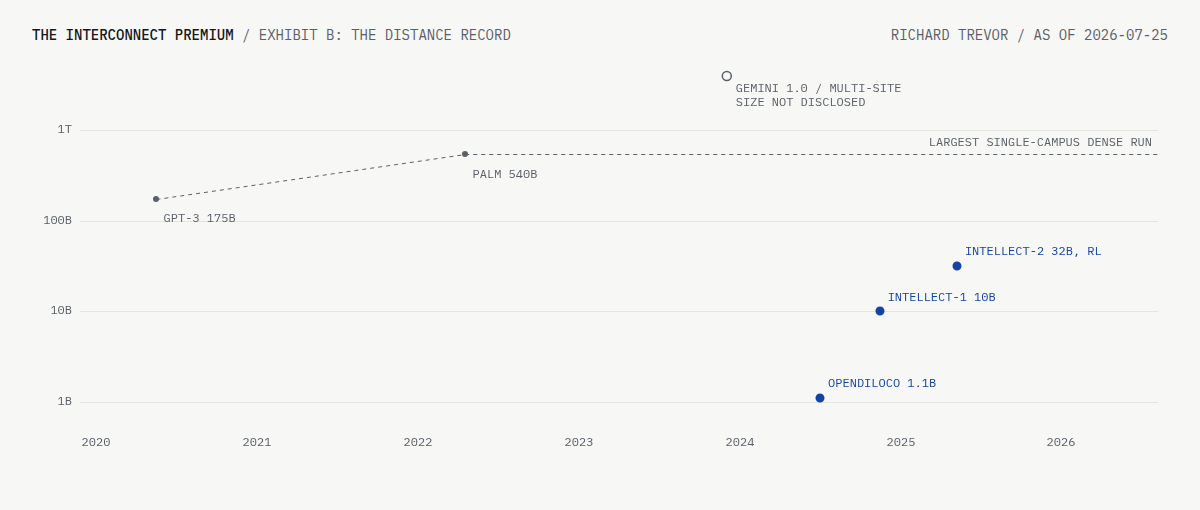
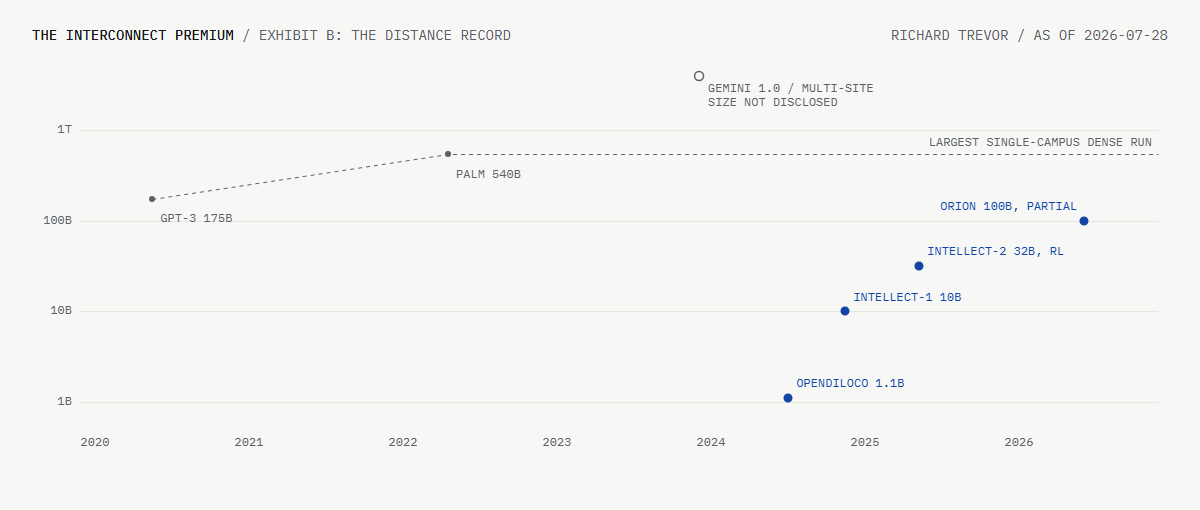
Orion-100B on the record; tail argument: sample cost is regime-dependent

diff --git a/index.html b/index.html
@@ -4,7 +4,7 @@
 <meta charset="utf-8">
 <meta name="viewport" content="width=device-width, initial-scale=1">
 <title>The Interconnect Premium | Richard Trevor</title>
-<meta name="description" content="What AI hardware pricing assumes about where training lives: the all-reduce arithmetic, the method spectrum, the multi-site record and pre-registered kill criteria. As of 2026-07-25.">
+<meta name="description" content="What AI hardware pricing assumes about where training lives: the all-reduce arithmetic, the method spectrum, the multi-site record and pre-registered kill criteria. As of 2026-07-28.">
 <meta property="og:title" content="The Interconnect Premium">
 <meta property="og:description" content="Under an unsharded data-parallel assumption, synchronous gradient training exits a 400 Gb/s port at 62.5B parameters. The full argument, caveats and pre-registered kill criteria.">
 <meta property="og:type" content="article">
@@ -28,7 +28,7 @@
 <div class="strip">
   <div class="container">
     <span><span class="k">BANDWIDTH WALL</span> <span class="headline-v" id="strip-headline">62.5B</span></span>
-    <span id="strip-date"><span class="k">DATA THROUGH</span> <span class="v">2026-07-25</span></span>
+    <span id="strip-date"><span class="k">DATA THROUGH</span> <span class="v">2026-07-28</span></span>
     <span class="who hide-m"><span class="v">RICHARD TREVOR</span> <span class="k">/</span> <a href="mailto:richardgt2001@gmail.com">richardgt2001@gmail.com</a></span>
   </div>
 </div>
@@ -40,7 +40,7 @@
       <div>WRITE-UP</div>
       <div class="name">RICHARD TREVOR</div>
       <div><a href="mailto:richardgt2001@gmail.com">richardgt2001@gmail.com</a></div>
-      <div>2026-07-25</div>
+      <div>2026-07-28</div>
     </div>
   </div>
   <nav class="site">
@@ -58,7 +58,8 @@
     inside one building, and that assumption is a number, 0.8 bytes per second per parameter in the
     unsharded data-parallel case, past a 400 Gb/s port at 62.5B parameters at a 5 second step. Methods
     that need less bandwidth exist at published exchange rates, and the multi-site record over ordinary
-    links moved from 1.1B to 32B parameters in under a year against a single-campus frontier of 540B.
+    links moved from 1.1B to 32B parameters in under a year, with a partial 100B demonstration in 2026,
+    against a single-campus frontier of 540B.
     Base case: the premium holds. The scenario worth watching is low-communication training reaching
     frontier scale; the tail, the part I know from my own dissertation, is evolutionary methods closing
     their sample gap. Three pre-registered criteria state what would change the base case, a daily
@@ -101,7 +102,7 @@
     </div>
     <div class="source-line">Same constants as the Monitor's Exhibit A. Evolutionary line: constructed
     scenario of 1,024 workers x 8 bytes every 5 seconds. Assumptions in methodology.csv. Data through
-    2026-07-25.</div>
+    2026-07-28.</div>
   </section>
 
   <section class="note-section">
@@ -124,7 +125,13 @@
     data of a gradient baseline, measured on reinforcement-learning tasks rather than language
     pretraining.<sup class="sn-ref">5</sup>
     <span class="sidenote">5. Salimans et al., 2017, source 6: evolution strategies scaled to over a
-    thousand workers with bytes-per-generation communication.</span></p>
+    thousand workers with bytes-per-generation communication. Qiu et al., 2025, source 22; MeZO,
+    source 23.</span>
+    That price is regime-dependent and it is moving: the first full-parameter evolution-strategies
+    fine-tuning of billion-parameter language models, published September 2025, needed under 20 percent
+    of the samples of the reinforcement-learning methods it was compared against, with fewer reward
+    hacks and steadier runs, and forward-pass-only fine-tuning has separately reached 66B parameters on
+    inference-class memory.</p>
     <p>My dissertation used these methods, so the sample penalty is something I have measured rather
     than read about. The work ran on a single machine, nothing distributed about it, and against a tuned
     gradient baseline the penalty came out at 4 to 8 times, inside the published range. What makes the
@@ -134,7 +141,8 @@
     research budgets reach, but I suspect part of the gap is research attention rather than method.
     Gradient training has had a decade of optimiser and infrastructure engineering behind it,
     evolutionary methods have not, and nobody has funded the equivalent effort to find where the floor
-    actually is. That is a suspicion, not a result.</p>
+    actually is. The September 2025 result above is the first funded attempt, and it moved the number
+    the way I expected. One result, one regime, so still a suspicion rather than a conclusion.</p>
     <p>The three families sit on one curve, and the gradient world has spent two years descending it,
     cutting its bandwidth requirement by two and a half orders of magnitude for a few points of
     efficiency. The premium prices the assumption that the descent stops here; the distance record below
@@ -168,16 +176,23 @@
     need only about 128 Mb/s per worker, and INTELLECT-2 ran 32B in 2025, though as
     reinforcement-learning post-training, which exchanges far less than pretraining.<sup class="sn-ref">7</sup>
     <span class="sidenote">7. Sources 3, 4, 5. RL post-training moves weights and rollouts occasionally,
-    not gradients every step; the 32B point is a weaker claim than the 10B one.</span></p>
+    not gradients every step; the 32B point is a weaker claim than the 10B one.</span>
+    In June 2026 an incentivised network of permissionless workers took a 100B dense model onto links
+    with a median upload of 856 Mbps, one previous-generation GPU per peer across five sites, at roughly
+    65 percent of datacentre speed, and stopped after 1.1B tokens for cost.<sup class="sn-ref">8</sup>
+    <span class="sidenote">8. Sources 20 and 21: 16 pipeline stages x 3 replicas, 48 A100s, 30.8 percent
+    average model FLOP utilisation. Engineering feasibility at 100B, not a completed pretraining.</span>
+    That touches criterion 2's scale threshold without meeting it, the run was not completed and the
+    compute penalty sits near 1.5x against the pre-registered 1.3x.</p>
     <p>Frontier laboratories also train across datacentres: Gemini was trained across multiple sites on
     private fibre. Owned, provisioned, exclusive links extend the radius of one building without changing
     its cost of entry, so they carry no evidence about commodity links. The exhibit separates the two
     records by marker for that reason.</p>
     <p>The gap is the number to track. In mid 2024 the commodity-link record stood roughly 500 times below
     the largest documented single-campus dense run, PaLM at 540B. By 2025 the gap was about 17 times.
-    Two data points set a direction; criterion 2 states the crossing that would settle it. Each crossing
-    on the way converts standalone fleets from stranded capacity into competing supply, and useful-life
-    assumptions register it first.</p>
+    Completed runs set the direction; criterion 2 states the crossing that would settle it. Each
+    crossing on the way converts standalone fleets from stranded capacity into competing supply, and
+    useful-life assumptions register it first.</p>
   </section>
 
   <section class="note-section">
@@ -186,17 +201,18 @@
     requirement is met, which the filings already show: NVIDIA reported 142 percent growth in Data
     Center networking revenue in fiscal 2026 driven by NVLink fabric, Ethernet and InfiniBand, Broadcom
     attributes its AI semiconductor demand to custom accelerators and Ethernet switching, and Micron
-    reported higher HBM demand from AI data centres.<sup class="sn-ref">8</sup>
-    <span class="sidenote">8. Sources 15 to 17. These disclosures establish demand for the components;
+    reported higher HBM demand from AI data centres.<sup class="sn-ref">9</sup>
+    <span class="sidenote">9. Sources 15 to 17. These disclosures establish demand for the components;
     they do not measure a standalone interconnect premium.</span>
     The costs of the alternatives are real, and capacity behind weaker links cannot hold the 5 second
     step, which is the constraint the premium prices.</p>
     <p>The live scenario is low-communication training reaching frontier scale, because that trajectory
     is funded and public: 500 local steps demonstrated in 2023, 10B across three continents in 2024, 32B
-    in 2025. If it continues to criterion 2 the first effects are accounting effects, because standalone
-    and prior-generation fleets re-enter the training pool and earn longer, which moves useful-life and
-    depreciation assumptions inside hyperscaler accounts before it moves any headline,<sup class="sn-ref">9</sup>
-    <span class="sidenote">9. Useful-life estimates have moved both ways. Microsoft extended server and
+    in 2025, a partial 100B in 2026. If it continues to criterion 2 the first effects are accounting
+    effects, because standalone and prior-generation fleets re-enter the training pool and earn longer,
+    which moves useful-life and depreciation assumptions inside hyperscaler accounts before it moves any
+    headline,<sup class="sn-ref">10</sup>
+    <span class="sidenote">10. Useful-life estimates have moved both ways. Microsoft extended server and
     network equipment from four to six years in 2022. Amazon extended servers from five to six years in
     2024, then shortened a subset to five years and accelerated retirements effective in 2025, citing the
     pace of AI and machine-learning development. Sources 18 and 19.</span>
@@ -205,11 +221,20 @@
     quarters, accounting follows within a reporting cycle or two, the rental spread moves last because
     marketplaces price bundles. The filings and the published runs are known, the sequencing is my
     inference.</p>
-    <p>The tail is evolutionary parity, the scenario I cannot size. If the sample gap closes the
-    dislocation is larger: compute demand rises while co-location demand falls, and accelerators
-    decouple from fabric. Nothing published points to it, my own results say the penalty is real, and it
-    stays a tail unless the attention gap closes. Nothing here recommends buying or selling
-    anything.</p>
+    <p>The tail is evolutionary parity, and the tail is where my weighting differs from consensus.
+    Structurally these methods fit a permissionless network better than anything else on the curve,
+    independent workers exchanging a scalar, free to join and drop, no orchestrator, while the Orion run
+    had to force coupled gradient training into that setting with 128x activation compression and the
+    friction visible in its numbers. What keeps the tail a tail is the sample bill, and the sample bill
+    is regime-dependent: heavy where the learning signal is dense, as in pretraining, thin where the
+    signal is a scalar reward, which is the regime frontier compute is shifting into as post-training
+    and reasoning take a growing share of budgets. The early evidence runs that way, ES fine-tuning
+    beating its RL baselines on samples at billion-parameter scale, forward-pass-only methods reaching
+    66B on inference-class memory, the largest multi-site run before Orion already reinforcement
+    learning. None of that is pretraining and none of it is frontier scale, so I still cannot size the
+    tail. What I can say is the direction: the share of compute suited to these methods is growing, and
+    if that continues the premium's anchor narrows to pretraining alone. Nothing here recommends buying
+    or selling anything.</p>
   </section>
 
   <section class="note-section">
@@ -254,6 +279,10 @@
       <li><span class="n">17</span><span>Micron, fiscal 2025 Form 10-K: AI data-centre demand for HBM, SEC filing 0000723125-25-000028.</span></li>
       <li><span class="n">18</span><span>Microsoft, fiscal 2024 Form 10-K: 2022 extension of server and network equipment useful lives from four to six years, SEC filing 0000950170-24-087843.</span></li>
       <li><span class="n">19</span><span>Amazon, fiscal 2024 Form 10-K: server useful-life changes and accelerated depreciation tied to AI and machine-learning development, SEC filing 0001018724-25-000004.</span></li>
+      <li><span class="n">20</span><span>Macrocosmos, IOTA: Incentivised Orchestrated Training Architecture, technical primer, arXiv 2507.17766, 2025.</span></li>
+      <li><span class="n">21</span><span>Macrocosmos, Orion-100B distributed pretraining report, macrocosmos.ai, June 2026.</span></li>
+      <li><span class="n">22</span><span>Qiu et al., Evolution Strategies at Scale: LLM Fine-Tuning Beyond Reinforcement Learning, arXiv 2509.24372, 2025.</span></li>
+      <li><span class="n">23</span><span>Malladi et al., Fine-Tuning Language Models with Just Forward Passes, arXiv 2305.17333, 2023.</span></li>
     </ol>
   </section>
 

diff --git a/monitor.html b/monitor.html
@@ -28,7 +28,7 @@
 <div class="strip">
   <div class="container">
     <span><span class="k">BANDWIDTH WALL</span> <span class="headline-v" id="strip-headline">62.5B</span></span>
-    <span id="strip-date"><span class="k">DATA THROUGH</span> <span class="v">2026-07-25</span></span>
+    <span id="strip-date"><span class="k">DATA THROUGH</span> <span class="v">2026-07-28</span></span>
     <span class="who hide-m"><span class="v">RICHARD TREVOR</span> <span class="k">/</span> <a href="mailto:richardgt2001@gmail.com">richardgt2001@gmail.com</a></span>
   </div>
 </div>
@@ -39,7 +39,7 @@
     <div class="side">
       <div class="name">RICHARD TREVOR</div>
       <div><a href="mailto:richardgt2001@gmail.com">richardgt2001@gmail.com</a></div>
-      <div>AS OF 2026-07-25</div>
+      <div>AS OF 2026-07-28</div>
     </div>
   </div>
   <nav class="site">
@@ -63,7 +63,7 @@
     <div class="figure" id="headline-figure">62.5B</div>
     <div class="defline">PARAMETERS AT WHICH ONE UNSHARDED DATA-PARALLEL REPLICA EXCEEDS A 400 Gb/s PORT
     AT A 5 S STEP. ILLUSTRATIVE BOUND; SHARDING CHANGES PER-DEVICE TRAFFIC. WINDOW 1B TO 1T. AS OF
-    2026-07-25.</div>
+    2026-07-28.</div>
   </div>
 
   <section class="block">
@@ -78,7 +78,7 @@
     </div>
     <div class="source-line">Source: methodology.csv; arXiv 2311.08105, 1703.03864, 2407.21783.
     Evolutionary line is a constructed scenario: 1,024 workers x 8 bytes every 5 seconds. Data through
-    2026-07-25.</div>
+    2026-07-28.</div>
   </section>
 
   <section class="block">
@@ -122,13 +122,13 @@
     <p class="prose">The largest documented multi-site training runs, against the largest documented
     single-campus dense run.</p>
     <div class="chart-wrap">
-      <div id="exhibit-c" class="screen-chart" role="img" aria-label="Scatter chart: multi-site training runs over commodity links have grown from 1.1 billion parameters in mid 2024 to 32 billion in 2025, against a single-campus dense frontier of 540 billion. Gemini multi-site training is annotated separately because its parameter count was not disclosed."></div>
+      <div id="exhibit-c" class="screen-chart" role="img" aria-label="Scatter chart: multi-site training runs over commodity links have grown from 1.1 billion parameters in mid 2024 to 32 billion in 2025, with a partial 100 billion demonstration in 2026, against a single-campus dense frontier of 540 billion. Gemini multi-site training is annotated separately because its parameter count was not disclosed."></div>
       <img class="print-only" src="assets/exhibit-c.png" alt="The Distance Record chart, static rendering.">
       <div class="chart-tip" id="c-tip"></div>
     </div>
     <div class="source-line">Source: methodology.csv; arXiv 2407.07852, 2412.01152, 2505.07291,
-    2312.11805. Gemini size not disclosed; shown on a non-quantitative top rail. Solid: commodity links.
-    Hollow: private fibre. Data through 2026-07-25.</div>
+    2312.11805, 2507.17766. Gemini size not disclosed; shown on a non-quantitative top rail. Orion
+    stopped at 1.1B tokens. Solid: commodity links. Hollow: private fibre. Data through 2026-07-28.</div>
   </section>
 
   <section class="block">

diff --git a/app.js b/app.js
@@ -16,7 +16,7 @@ var C = {
   dilocoLocalSteps: 500,     /* DiLoCo H */
   evoPopulation: 1024,       /* constructed ES scenario; see methodology.csv */
   evoBytesPerMember: 8,      /* one scalar return per worker */
-  refAsOf: "2026-07-25"      /* date the reference constants were last checked */
+  refAsOf: "2026-07-28"      /* date the reference constants were last checked */
 };
 
 /* link classes, cheapest first: [key, bytes per second, band label, short label, verdict] */
@@ -319,7 +319,8 @@ function initPanel() {
 var RUNS = [
   { x: 2024.50, p: 1.1e9, label: "OPENDILOCO 1.1B", short: "1.1B OPEN", kind: "commodity", link: "internet, 2 continents", dx: 8, dy: -8 },
   { x: 2024.87, p: 10e9, label: "INTELLECT-1 10B", short: "INT-1 10B", kind: "commodity", link: "internet, 3 continents", dx: 8, dy: -8 },
-  { x: 2025.35, p: 32e9, label: "INTELLECT-2 32B, RL", short: "INT-2 32B RL", kind: "commodity", link: "internet, permissionless workers", dx: 8, dy: -8, narrowAlign: "right", narrowDx: -7 }
+  { x: 2025.35, p: 32e9, label: "INTELLECT-2 32B, RL", short: "INT-2 32B RL", kind: "commodity", link: "internet, permissionless workers", dx: 8, dy: -8, narrowAlign: "right", narrowDx: -7 },
+  { x: 2026.42, p: 100e9, label: "ORION 100B, PARTIAL", short: "ORION 100B", kind: "commodity", link: "internet, 5 sites, stopped at 1.1B tokens", align: "right", dx: -7, dy: -8, narrowAlign: "right", narrowDx: -7 }
 ];
 var GEMINI = {
   x: 2023.92,
@@ -336,7 +337,7 @@ var REFS = [
 function buildExhibitC(target) {
   var xsSet = {};
   RUNS.concat(REFS).forEach(function (r) { xsSet[r.x] = true; });
-  [2019.9, 2026.6].forEach(function (x) { xsSet[x] = true; });
+  [2019.9, 2026.9].forEach(function (x) { xsSet[x] = true; });
   var xs = Object.keys(xsSet).map(Number).sort(function (a, b) { return a - b; });
 
   function col(pred, val) {
@@ -352,7 +353,7 @@ function buildExhibitC(target) {
   var refLine = xs.map(function (x) {
     if (x === 2020.37) return 175e9;
     if (x === 2022.29) return 540e9;
-    if (x === 2026.6) return 540e9;
+    if (x === 2026.9) return 540e9;
     return null;
   });
 
@@ -372,7 +373,7 @@ function buildExhibitC(target) {
     legend: { show: false },
     cursor: { y: false, points: { show: false }, drag: { x: false, y: false } },
     scales: {
-      x: { time: false, range: [2019.9, 2026.6] },
+      x: { time: false, range: [2019.9, 2026.9] },
       y: { distr: 3, log: 10, range: [5e8, 5e12] }
     },
     series: [
@@ -405,7 +406,7 @@ function buildExhibitC(target) {
         RUNS.concat(REFS).forEach(function (r) {
           var x = u2.valToPos(r.x, "x", true), y = u2.valToPos(r.p, "y", true);
           ctx.fillStyle = r.kind === "commodity" ? BLUE : INK2;
-          ctx.textAlign = narrow && r.narrowAlign ? r.narrowAlign : "left";
+          ctx.textAlign = (narrow && r.narrowAlign) || r.align || "left";
           ctx.textBaseline = r.dy < 0 ? "bottom" : "top";
           ctx.fillText(narrow ? r.short : r.label,
             x + px(narrow && r.narrowDx != null ? r.narrowDx : r.dx), y + px(r.dy));

diff --git a/scripts/og-c.html b/scripts/og-c.html
@@ -17,7 +17,7 @@
 <div class="og-frame">
   <div class="og-head">
     <span><span class="t">THE INTERCONNECT PREMIUM</span> / EXHIBIT B: THE DISTANCE RECORD</span>
-    <span>RICHARD TREVOR / AS OF 2026-07-25</span>
+    <span>RICHARD TREVOR / AS OF 2026-07-28</span>
   </div>
   <div id="og-c" style="width:1136px"></div>
 </div>

diff --git a/scripts/og.html b/scripts/og.html
@@ -17,7 +17,7 @@
 <div class="og-frame">
   <div class="og-head">
     <span><span class="t">THE INTERCONNECT PREMIUM</span> / EXHIBIT A: THE BANDWIDTH WALL</span>
-    <span>RICHARD TREVOR / AS OF 2026-07-25</span>
+    <span>RICHARD TREVOR / AS OF 2026-07-28</span>
   </div>
   <div id="og-a" style="width:1136px"></div>
 </div>
